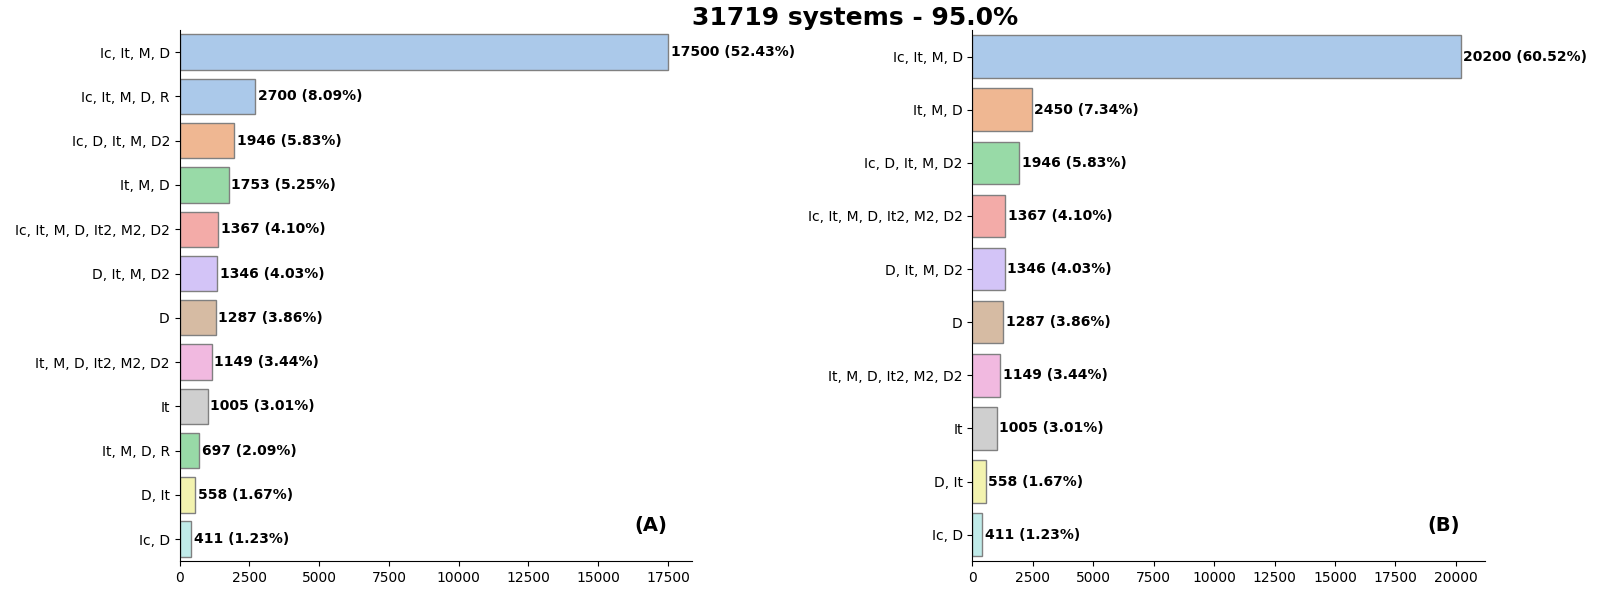
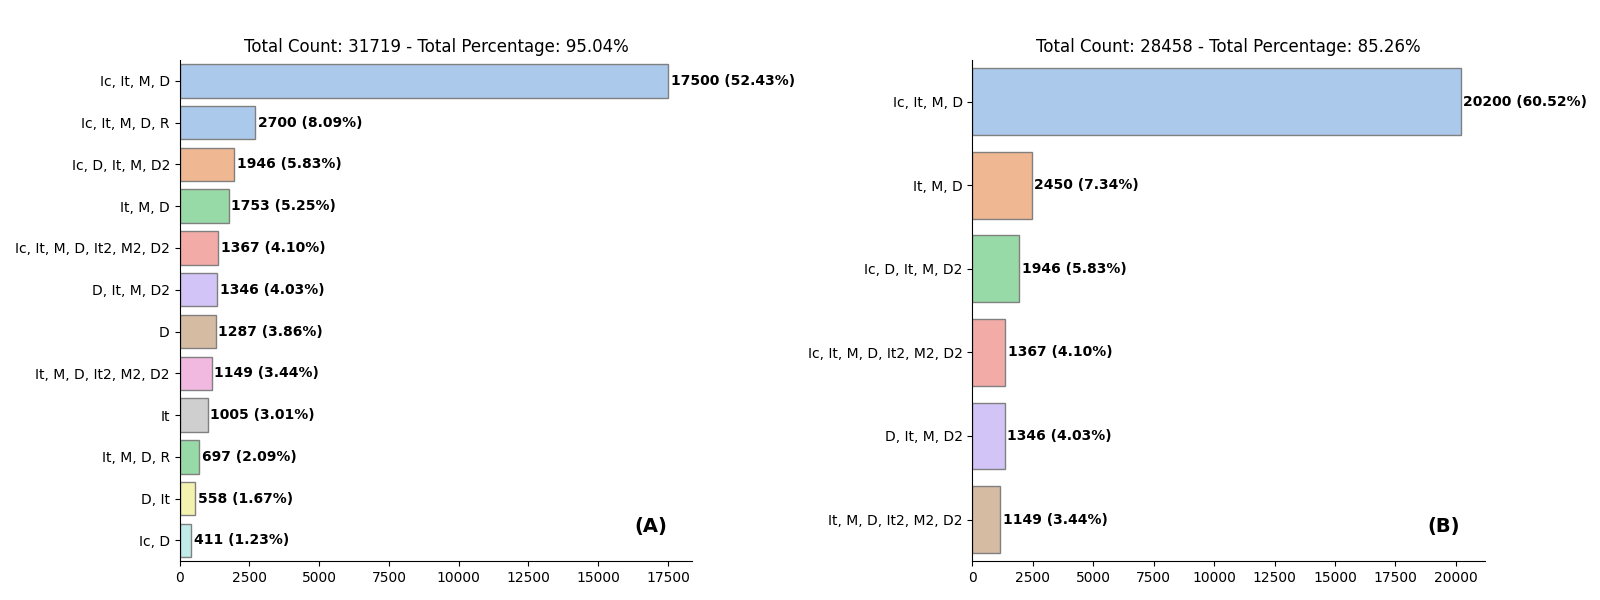
Removed phases withut mature

Changed region(s): [[0.0, 0.0, 1.0, 0.93], [0.5312, 0.36, 0.5625, 0.39], [0.1562, 0.87, 0.1875, 0.9]]

diff --git a/src_manuscript_life-cycle/barplot_statistics.py b/src_manuscript_life-cycle/barplot_statistics.py
@@ -3,7 +3,7 @@ import matplotlib.pyplot as plt
 import seaborn as sns
 import os
 
-def process_df(df, percentage_threshold=1, filter_df=False, exclude_residual=False):
+def process_df(df, percentage_threshold=1, filter_df=False, exclude_residual=False, contain_mature_phase=False):
 
     processed_df = df.copy()
 
@@ -20,9 +20,12 @@ def process_df(df, percentage_threshold=1, filter_df=False, exclude_residual=Fal
                     'Percentage': 'sum'
                     }).sort_values(by='Total Count', ascending=False)
     
+    if contain_mature_phase:
+        processed_df = processed_df[processed_df['Type of System'].str.contains('mature')]
+    
     return processed_df
 
-def plot_barplot(df, label, ax, suffix, filter=False):
+def plot_barplot(df, label, ax, suffix):
     # Mapping labels to the desired scheme
     label_mapping = {
         'incipient': 'Ic',
@@ -43,7 +46,7 @@ def plot_barplot(df, label, ax, suffix, filter=False):
     df['Type of System'] = df['Type of System'].apply(lambda x: ', '.join([label_mapping.get(word, word) for word in x.split(', ')]))
 
     # Determine the orientation based on the filter flag
-    orient = 'h' if not filter else 'v'
+    orient = 'h'
 
     if suffix == 'filtered':
         unique_sequences = df['Type of System'].str.replace(', R', '').str.replace('R, ', '').str.replace('R', '').unique()
@@ -76,6 +79,11 @@ def plot_barplot(df, label, ax, suffix, filter=False):
     ax.set_xlabel(None)
     ax.set_ylabel(None)
 
+    # Add text annotations for total count and percentage
+    total_count = df['Total Count'].sum()
+    total_percentage = df['Percentage'].sum()
+    ax.title.set_text(f'Total Count: {total_count} - Total Percentage: {total_percentage:.2f}%')
+
     sns.despine(fig=None, ax=None, top=True, right=True, left=False, bottom=False, offset=None, trim=False)
 
     
@@ -88,14 +96,7 @@ def plot_combined_barplots(df1, df2, output_directory, suffix):
 
     # Adjust spacing
     plt.tight_layout()
-    plt.subplots_adjust(top=0.95)
-
-    # Add text annotations for total count and percentage
-    total_count = df1['Total Count'].sum()
-    total_percentage = df1['Percentage'].sum()
-    axes[0].text(1, 1, f'{total_count} systems - {total_percentage:.1f}%',
-                  fontweight='bold', fontsize=18,
-                 transform=axes[0].transAxes, ha='left', va='bottom')
+    plt.subplots_adjust(top=0.9)
 
     # Save the combined figure
     combined_output_file = os.path.join(output_directory, f'combined_barplots_{suffix}.png')
@@ -118,10 +119,10 @@ df_excluded_residual = process_df(df, filter_df=False, exclude_residual=True)
 filtered_df = process_df(df, filter_df=True, exclude_residual=False)
 
 # df for phases with more than 1% and exluding residual phases
-filtered_df_exclude_residual = process_df(df, filter_df=True, exclude_residual=True)
+filtered_df_exclude_residual_contain_mature = process_df(df, filter_df=True, exclude_residual=True, contain_mature_phase=True)
 # export csv for further analysis
-filtered_df_exclude_residual.to_csv('../periods_species_statistics/70W-no-continental/total_count_of_systems_filtered.csv')
+filtered_df_exclude_residual_contain_mature.to_csv('../periods_species_statistics/70W-no-continental/total_count_of_systems_filtered.csv')
 
 # Combine the four bar plots into one figure
 plot_combined_barplots(df, df_excluded_residual, output_directory, 'total')
-plot_combined_barplots(filtered_df, filtered_df_exclude_residual, output_directory, 'filtered')
+plot_combined_barplots(filtered_df, filtered_df_exclude_residual_contain_mature, output_directory, 'filtered')
